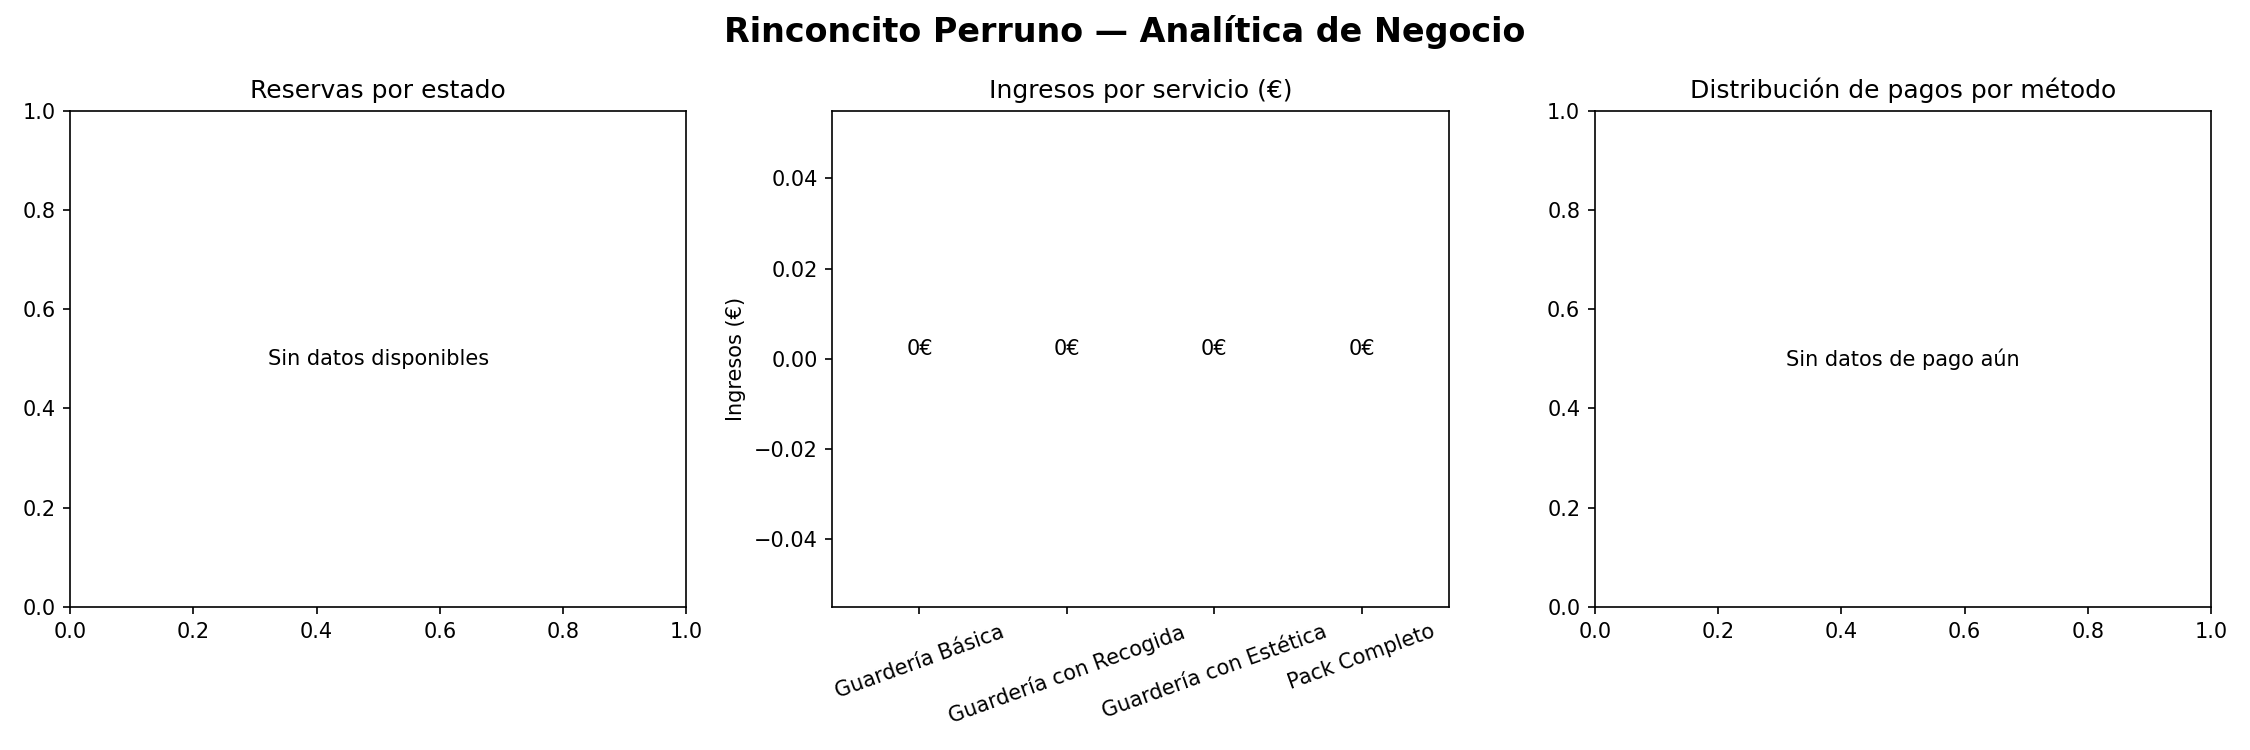
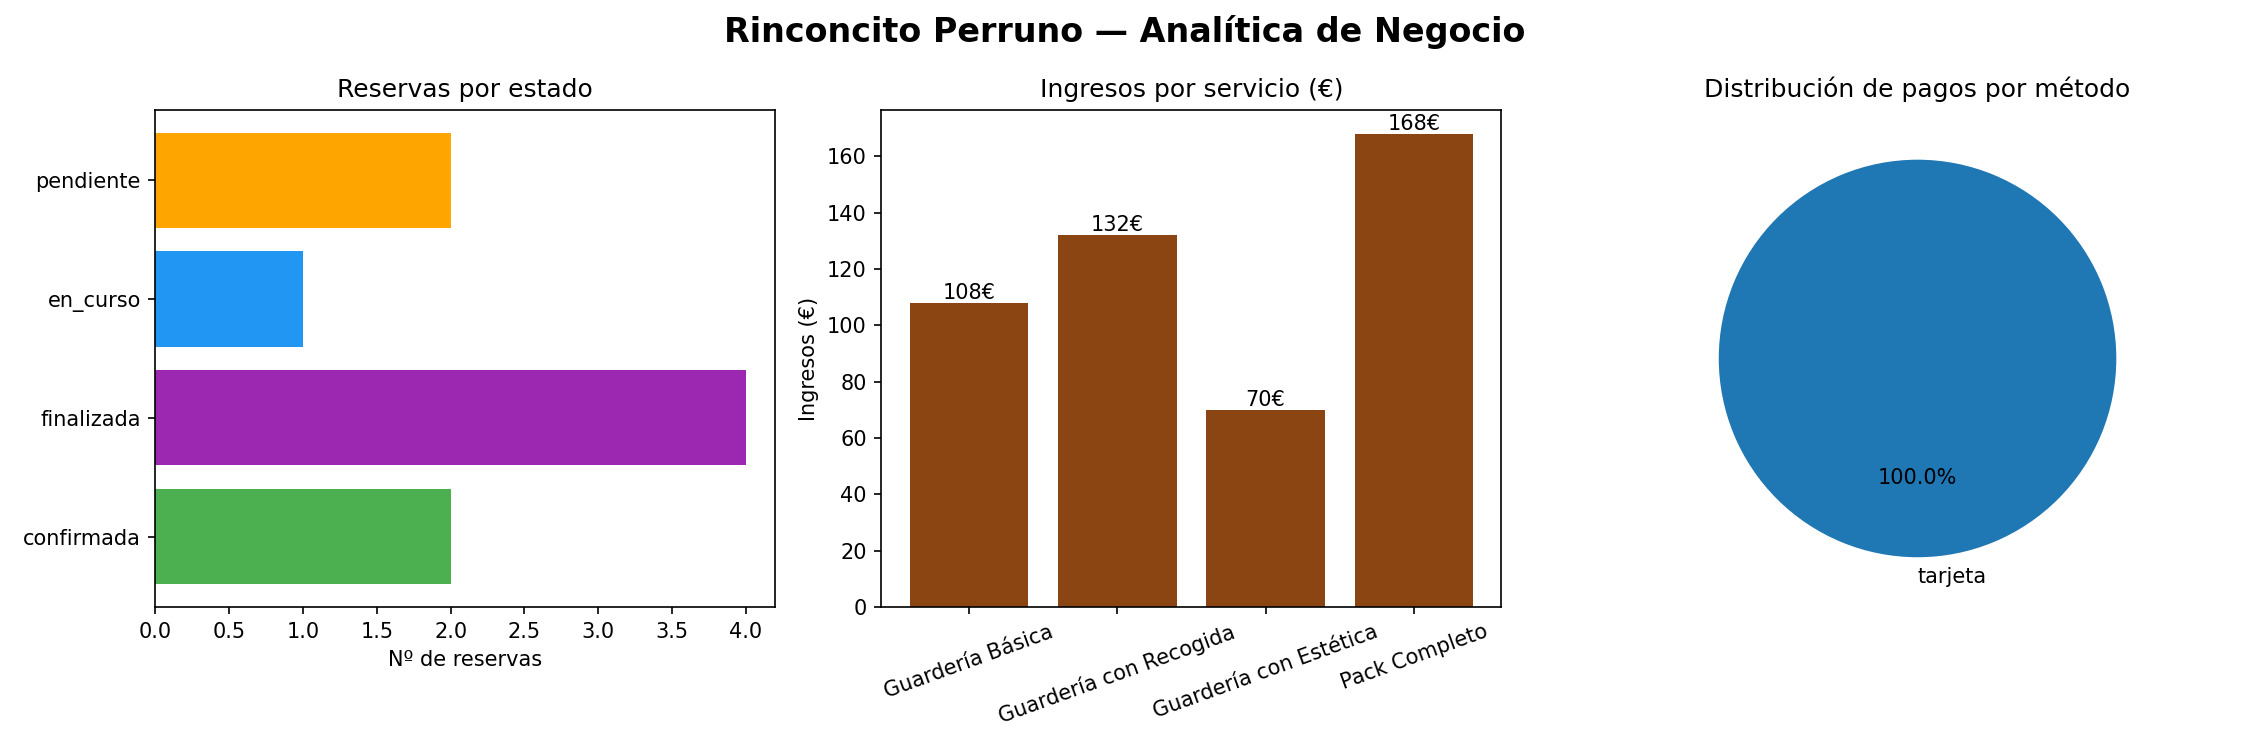
feat:ReservaSeeder con datos demo y reporte Python actualizado

diff --git a/database/seeders/ReservaSeeder.php b/database/seeders/ReservaSeeder.php
@@ -1,0 +1,112 @@
+<?php
+
+namespace Database\Seeders;
+
+use App\Models\Perro;
+use App\Models\Servicio;
+use App\Models\User;
+use Carbon\Carbon;
+use Illuminate\Database\Seeder;
+use Illuminate\Support\Facades\DB;
+use Illuminate\Support\Str;
+
+class ReservaSeeder extends Seeder
+{
+    public function run(): void
+    {
+        $cliente = User::where('email', 'cliente@ejemplo.es')->first();
+        $rocky = Perro::where('id_usuario', $cliente->id)->where('nombre', 'Rocky')->first();
+        $luna = Perro::where('id_usuario', $cliente->id)->where('nombre', 'Luna')->first();
+        $servicios = Servicio::all()->keyBy('nombre');
+
+        $reservas = [
+            [
+                'perro' => $rocky,
+                'servicio' => $servicios['Guardería Básica'],
+                'fecha_entrada' => Carbon::now()->subDays(45),
+                'fecha_salida' => Carbon::now()->subDays(43),
+                'estado' => 'finalizada',
+            ],
+            [
+                'perro' => $luna,
+                'servicio' => $servicios['Pack Completo'],
+                'fecha_entrada' => Carbon::now()->subDays(30),
+                'fecha_salida' => Carbon::now()->subDays(28),
+                'estado' => 'finalizada',
+            ],
+            [
+                'perro' => $rocky,
+                'servicio' => $servicios['Guardería con Estética'],
+                'fecha_entrada' => Carbon::now()->subDays(15),
+                'fecha_salida' => Carbon::now()->subDays(13),
+                'estado' => 'finalizada',
+            ],
+            [
+                'perro' => $luna,
+                'servicio' => $servicios['Guardería con Recogida'],
+                'fecha_entrada' => Carbon::now()->subDays(7),
+                'fecha_salida' => Carbon::now()->subDay(),
+                'estado' => 'finalizada',
+            ],
+            [
+                'perro' => $rocky,
+                'servicio' => $servicios['Pack Completo'],
+                'fecha_entrada' => Carbon::now()->subDay(),
+                'fecha_salida' => Carbon::now()->addDay(),
+                'estado' => 'en_curso',
+            ],
+            [
+                'perro' => $luna,
+                'servicio' => $servicios['Guardería Básica'],
+                'fecha_entrada' => Carbon::now()->addDays(5),
+                'fecha_salida' => Carbon::now()->addDays(8),
+                'estado' => 'confirmada',
+            ],
+            [
+                'perro' => $rocky,
+                'servicio' => $servicios['Guardería con Recogida'],
+                'fecha_entrada' => Carbon::now()->addDays(10),
+                'fecha_salida' => Carbon::now()->addDays(12),
+                'estado' => 'pendiente',
+            ],
+            [
+                'perro' => $luna,
+                'servicio' => $servicios['Guardería con Estética'],
+                'fecha_entrada' => Carbon::now()->addDays(15),
+                'fecha_salida' => Carbon::now()->addDays(16),
+                'estado' => 'pendiente',
+            ],
+        ];
+
+        $now = Carbon::now();
+
+        foreach ($reservas as $index => $datos) {
+            $reservaId = DB::table('reservas')->insertGetId([
+                'fecha_entrada' => $datos['fecha_entrada']->toDateString(),
+                'fecha_salida' => $datos['fecha_salida']->toDateString(),
+                'estado' => $datos['estado'],
+                'id_usuario' => $cliente->id,
+                'id_perro' => $datos['perro']->id,
+                'id_servicio' => $datos['servicio']->id,
+                'created_at' => $now,
+                'updated_at' => $now,
+            ]);
+
+            if ($index < 5) {
+                $noches = $datos['fecha_entrada']->diffInDays($datos['fecha_salida']);
+
+                DB::table('pagos')->insert([
+                    'importe' => $noches * $datos['servicio']->precio_base,
+                    'metodo' => 'tarjeta',
+                    'estado' => 'completado',
+                    'stripe_payment_id' => 'pi_test_'.Str::random(24),
+                    'fecha_pago' => $datos['fecha_salida']->copy()->addHour(),
+                    'id_reserva' => $reservaId,
+                    'id_bono' => null,
+                    'created_at' => $now,
+                    'updated_at' => $now,
+                ]);
+            }
+        }
+    }
+}

diff --git a/analytics/reporte.py b/analytics/reporte.py
@@ -52,7 +52,7 @@ def conectar():
     try:
         return mysql.connector.connect(**DB_CONFIG)
     except mysql.connector.Error as err:
-        print(f'❌ Error al conectar con MySQL: {err}')
+        print(f'Error al conectar con MySQL: {err}')
         sys.exit(1)
 
 

diff --git a/database/seeders/DatabaseSeeder.php b/database/seeders/DatabaseSeeder.php
@@ -13,5 +13,7 @@ class DatabaseSeeder extends Seeder
             ServicioSeeder::class,
             PerroSeeder::class,
         ]);
+
+        $this->call(ReservaSeeder::class);
     }
 }
